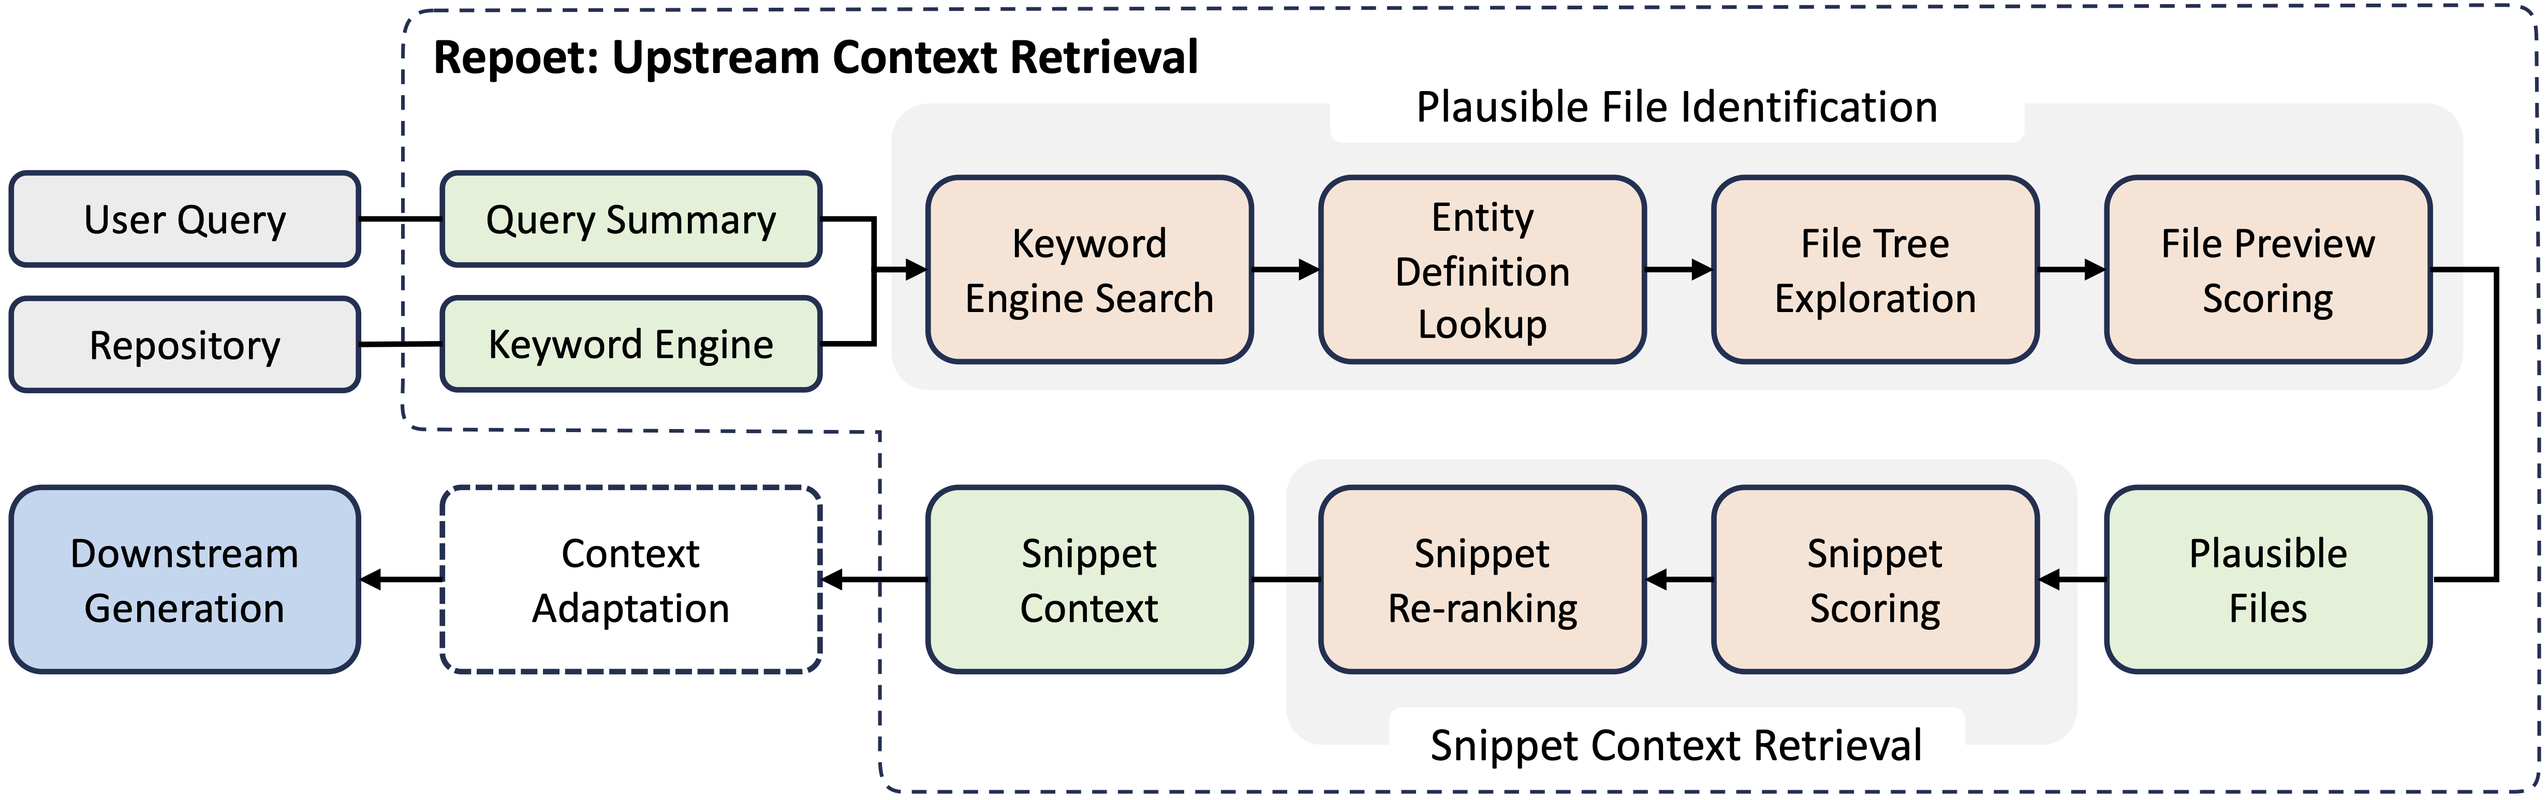
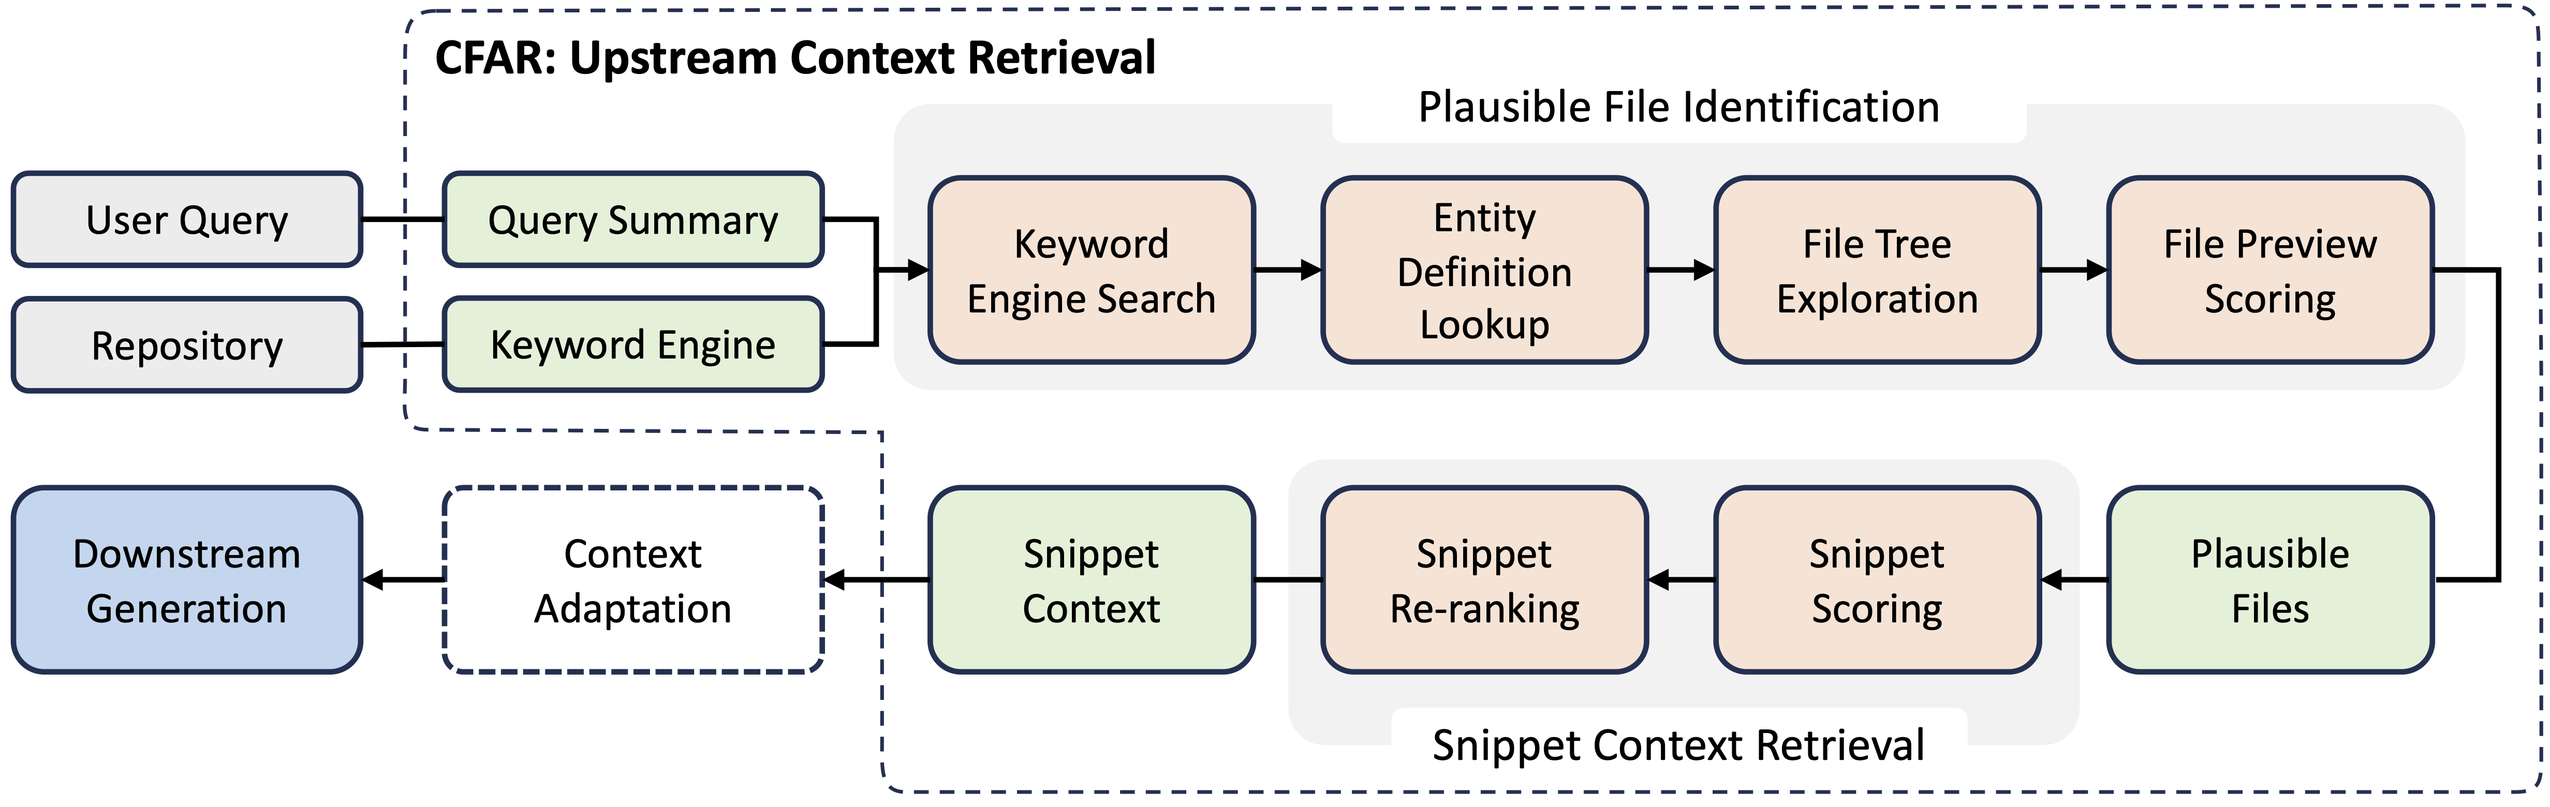
docs: rename swell and repoet in docs

diff --git a/cora/swekit.py b/cora/swekit.py
@@ -132,7 +132,7 @@ class SWEKit:
         self.num_thread = num_thread
         self.debug_mode = debug_mode
         self.console = get_boxed_console(
-            box_title="SWEKIT",
+            box_title="SWE-kit",
             box_bg_color="gray50",
             debug_mode=debug_mode,
         )
@@ -168,7 +168,7 @@ class SWEKit:
 
         # Create an RepoAgent to retrieve context and try resolving the issue
         agent = RepoAgent(
-            name="SWEKit",
+            name="SWE-kit",
             repo=repo,
             includes=["*.py"],  # We focus on Python for SWE-bench
             use_llm=self.use_llm,

diff --git a/cora/fixit.py b/cora/fixit.py
@@ -166,7 +166,7 @@ def main():
     eval_script, eval_args = parse_eval_script(args)
 
     fixit = RepoAgent(
-        name="FixIt",
+        name="FixIt!",
         repo=repo,
         includes=incl,
         use_llm=llm,

diff --git a/docs/README_zh.md b/docs/README_zh.md
@@ -3,7 +3,7 @@
 </div>
 
 <div align="center">
-    <h1>CodeFuse Swell</h1>
+    <h1>CodeFuse RepoAgent</h1>
 </div>
 
 <div align="center">
@@ -14,28 +14,28 @@
 
 <!-- TODO: Add Badges -->
 
-CodeFuse Swell 是一个仓库级检索增强生成（r-RAG）智能体，旨在通过提升 r-RAG 的上游检索（R）能力，进而增强下游大模型的生成（G）能力，并据此回答用户对仓库的查询和提问。Swell 利用其上游的语义检索智能体 CodeFuse Repoet 来获取于用户提问紧密相关的上下文信息，随后，它将这些上下文信息转换为特定任务的下游任务提示指令，以有效地生成对用户查询的响应。
+CodeFuse RepoAgent (CoRA) 是一个仓库级检索增强生成（r-RAG）智能体，旨在通过提升 r-RAG 的上游检索（R）能力，进而增强下游大模型的生成（G）能力，并据此回答用户对仓库的查询和提问。CoRA 利用其上游的语义检索智能体 CodeFuse Agentic Retriever (CFAR) 来获取于用户提问紧密相关的上下文信息，随后，它将这些上下文信息转换为特定任务的下游任务提示指令，以有效地生成对用户查询的响应。
 
 ---
 
 ## 🔥 新闻
 
-- **[2024/12/01]** 我们发布了 Swell 最核心的上下文检索工具 Repoet。
-- **[2024/12/03]** 我们发布了 Swell 的缺陷修复功能和修复 SWE-bench 中缺陷的工具 SWE-kit。
+- **[2024/12/01]** 我们发布了 CoRA 最核心的上下文检索工具 CodeFuse Agentic Retriever (CFAR)。
+- **[2024/12/03]** 我们发布了 CoRA 的缺陷修复工具 FixIt! 和 SWE-kit，其中，SWE-kit 集成 SWE-bench 进行补丁正确性验证。
 
 ---
 
 ## 👏🏻 简介
 
-Swell 利用 Repoet 获取与用户提问紧密相关的上下文信息，随后，它将这些上下文信息转换为特定任务的下游任务提示指令，以有效地生成对用户查询的响应。
+CoRA 利用 CFAR 获取与用户提问紧密相关的上下文信息，随后，它将这些上下文信息转换为特定任务的下游任务提示指令，以有效地生成对用户查询的响应。
 
-仓库级检索增强生成（r-RAG）所面临的主要挑战是提取与用户提问紧密相关的上下文信息——即称为“片段上下文”或简称“上下文”的特定代码行或文档行——以有效响应用户的仓库相关查询。虽然目前已经有一些现有方法，但它们存在准确性不足、结果不确定性以及设计复杂且难以实施等局限。为了解决这些问题，Repoet 提出了一种新颖且简单易行的复合方法，将传统的基于关键字的搜索与大语言模型（LLM）相结合，以提升 r-RAG 的语义检索能力。Repoet 的设计基于一个观察：尽管关键字搜索的准确性可能不高，但它所检索出的上下文往往接近于解决用户查询所需的真实上下文（GT, ground truths）。这一观察体现在两个方面：首先，虽然结果并不总是特别好，但关键字搜索仍能够召回相当一部分的 GT 文件；其次，关键字引擎所找到的文件在仓库结构上与 GT 文件距离较为接近，LLM 可以帮助在这些文件的附近进行更有效的查找。Repoet 的工作流程如下：
-1. **识别可行文件**：Repoet 首先利用关键字引擎找到一系列可能与用户查询相关的可行文件。这些可行文件为后续基于LLM的优化提供了基础，具体包括：（1）分析用户提问中的代码实体（例如函数和类）和仓库的组织结构，以补充可能在引擎搜索过程中遗漏的可行文件；（2）让 LLM 对每个可行文件进行概览分析，以过滤掉在引擎搜索中错误提及的不相关文件。
-2. **检索片段上下文**：接下来，Repoet 利用 LLM 深入检查每个可行文件的具体内容，查找与用户查询相关的片段，并在此阶段对相关片段进行排序和优化。
+仓库级检索增强生成（r-RAG）所面临的主要挑战是提取与用户提问紧密相关的上下文信息——即称为“片段上下文”或简称“上下文”的特定代码行或文档行——以有效响应用户的仓库相关查询。虽然目前已经有一些现有方法，但它们存在准确性不足、结果不确定性以及设计复杂且难以实施等局限。为了解决这些问题，CFAR 提出了一种新颖且简单易行的复合方法，将传统的基于关键字的搜索与大语言模型（LLM）相结合，以提升 r-RAG 的语义检索能力。CFAR 的设计基于一个观察：尽管关键字搜索的准确性可能不高，但它所检索出的上下文往往接近于解决用户查询所需的真实上下文（GT, ground truths）。这一观察体现在两个方面：首先，虽然结果并不总是特别好，但关键字搜索仍能够召回相当一部分的 GT 文件；其次，关键字引擎所找到的文件在仓库结构上与 GT 文件距离较为接近，LLM 可以帮助在这些文件的附近进行更有效的查找。CFAR 的工作流程如下：
+1. **识别可行文件**：CFAR 首先利用关键字引擎找到一系列可能与用户查询相关的可行文件。这些可行文件为后续基于LLM的优化提供了基础，具体包括：（1）分析用户提问中的代码实体（例如函数和类）和仓库的组织结构，以补充可能在引擎搜索过程中遗漏的可行文件；（2）让 LLM 对每个可行文件进行概览分析，以过滤掉在引擎搜索中错误提及的不相关文件。
+2. **检索片段上下文**：接下来，CFAR 利用 LLM 深入检查每个可行文件的具体内容，查找与用户查询相关的片段，并在此阶段对相关片段进行排序和优化。
 
-![Swell's Overview](../.github/assets/overview.png)
+![CoRA's Overview](../.github/assets/overview.png)
 
-Swell 的用途之一是仓库级的缺陷修复。基于 Repoet 获取的上下文，Swell 通过一条简单直接的提示词，便成功促使 GPT-4o 解决了 SWE-bench Lite 中的 95 个问题（31.67%）。在 2024 年 10 月 23 日前，这个结果曾一度在 SWE-bench Lite 开源排行榜上排名第一。我们将 Swell 的技术报告发表在了 [arXiv](#) 上。
+CoRA 的用途之一是仓库级的缺陷修复。基于 CFAR 获取的上下文，CoRA 通过一条简单直接的提示词，便成功促使 GPT-4o 解决了 SWE-bench Lite 中的 95 个问题（31.67%）。在 2024 年 10 月 23 日前，这个结果曾一度在 SWE-bench Lite 开源排行榜上排名第一。我们将 CoRA 的技术报告发表在了 [arXiv](#) 上。
 
 ## 📦 安装
 
@@ -43,21 +43,21 @@ Swell 的用途之一是仓库级的缺陷修复。基于 Repoet 获取的上下
 
 ```shell
 conda env create -f environment.yaml
-conda activate swell_venv
+conda activate cora_venv
 mv env.template .env  # This saves some environment variables
 ```
 
 其次，确保欲使用的大模型处于可用状态：
 - 对于 OpenAI 的模型，请在 `.env` 中配置 API key 等；
-- 对于 Ollama 模型，请在使用 Swell 前通过 `ollama pull` 下载所需模型；
+- 对于 Ollama 模型，请在使用 CoRA 前通过 `ollama pull` 下载所需模型；
 - 对于 HuggingFace 模型，要么提前下载好模型，要么在 `.env` 中配置允许 HuggingFace 联网。
 
 ## 🔍 上下文检索
 
-Repoet 可独立用于上下文检索:
+CFAR 可独立用于上下文检索:
 
 ```shell
-python -m swell.repoet      \
+python -m cora.cfar         \
     -q <user_query>         \
     -m <lang_model>         \
     <repository>
@@ -68,10 +68,10 @@ python -m swell.repoet      \
 > [!WARNING]
 > This section is still working in progress.
 
-Swell 可以为仓库中的某个缺陷生成修复该缺陷的补丁（patch）:
+CoRA 的 FixIt! 可以为仓库中的某个缺陷生成修复该缺陷的补丁（patch）:
 
 ```shell
-python -m swell.swell       \
+python -m cora.fixit        \
     -q <issue_text>         \
     -i <issue_id>           \
     -m <lang_model>         \
@@ -81,14 +81,14 @@ python -m swell.swell       \
     <repository>
 ```
 
-如果提供了评估脚本（即 `-e`），Swell 将使用该脚本评估所生成的补丁是否能够通过该脚本的测试。若未通过，Swell 将重试，直到生成能够通过该脚本的补丁或达到被允许尝试的最大尝试次数（即 `-M`）。若没有提供评估脚本，，Swell 仅生成一个看似合理的补丁，而不评估其正确性。
+如果提供了评估脚本（即 `-e`），FixIt! 将使用该脚本评估所生成的补丁是否能够通过该脚本的测试。若未通过，FixIt! 将重试，直到生成能够通过该脚本的补丁或达到被允许尝试的最大尝试次数（即 `-M`）。若没有提供评估脚本，，FixIt! 仅生成一个看似合理的补丁，而不评估其正确性。
 
 ## 🐑 SWE-bench (WIP)
 
 > [!WARNING]
 > This section is still working in progress
 
-Swell 的 SWE-kit 可以修复 SWE-bench 数据集中的缺陷。为了验证 Swell 生成的补丁是否可以通过 SWE-bench 中收录的测试，首先需要安装 SWE-bench:
+CoRA 的 SWE-kit 可以修复 SWE-bench 数据集中的缺陷。为了验证 SWE-kit 生成的补丁是否可以通过 SWE-bench 中收录的测试，首先需要安装 SWE-bench:
 
 ```shell
 git clone git@github.com:princeton-nlp/SWE-bench.git
@@ -99,7 +99,7 @@ pip install -e .
 然后，便可以用 SWE-kit 尝试为某个缺陷生成补丁：
 
 ```shell
-python -m swell.swekit      \
+python -m cora.swekit       \
     -d <dataset_id>         \
     -m <lang_model>         \
     -M <max_retries>        \
@@ -108,10 +108,10 @@ python -m swell.swekit      \
 
 ## 🤖 问题回答
 
-Swell's RepoQA 可以回答用户针对仓库的提问：
+CoRA's RepoQA 可以回答用户针对仓库的提问：
 
 ```shell
-python -m swell.repoqa      \
+python -m cora.repoqa       \
     -q <user_query>         \
     -m <lang_model>         \
     <repository>
@@ -119,16 +119,16 @@ python -m swell.repoqa      \
 
 ## 👨💻 写给开发者
 
-为更好地维护仓库，Swell 设置了一系列预提交检查，比如代码风格检查、提交信息检查等。因此，在为该项目提交代码之前，开发者需要安装 Swell 所需的检查工具：
+为更好地维护仓库，CoRA 设置了一系列预提交检查，比如代码风格检查、提交信息检查等。因此，在为该项目提交代码之前，开发者需要安装 CoRA 所需的检查工具：
 
 ```shell
 pre-commit install  # install pre-commit itself
 pre-commit install-hooks  # install our pre-commit checkers
 ```
 
-下面列举了 Swell 设置的部分检查器:
-+ Python：Swell 使用 ruff 进行代码检查和格式化，[这里](https://docs.astral.sh/ruff/rules/)列举了所有 Ruff 支持的规则。若开发者使用 PyCharm，可根据 [ruff.md](./docs/ruff.md) 进行 ruff 配置。
-+ Commit Messages：Swell 遵循 Conventional Commits 来规范所有提交信息，见[这里](https://www.conventionalcommits.org/)。
-+ 其他：Swell 还应用了一些其他检查工具，例如 YAML 检查。
+下面列举了 CoRA 设置的部分检查器:
++ Python：CoRA 使用 ruff 进行代码检查和格式化，[这里](https://docs.astral.sh/ruff/rules/)列举了所有 Ruff 支持的规则。若开发者使用 PyCharm，可根据 [ruff.md](./docs/ruff.md) 进行 ruff 配置。
++ Commit Messages：CoRA 遵循 Conventional Commits 来规范所有提交信息，见[这里](https://www.conventionalcommits.org/)。
++ 其他：CoRA 还应用了一些其他检查工具，例如 YAML 检查。
 
 <!-- Add "Cite Us" -->

diff --git a/README.md b/README.md
@@ -3,7 +3,7 @@
 </div>
 
 <div align="center">
-    <h1>CodeFuse Swell</h1>
+    <h1>CodeFuse RepoAgent</h1>
 </div>
 
 <div align="center">
@@ -14,28 +14,28 @@
 
 <!-- TODO: Add Badges -->
 
-CodeFuse Swell (or Swell) is a repository-level retrieval-augmented generation agent aiming to address user queries toward a software repository.
+CodeFuse RepoAgent (or CoRA) is a repository-level retrieval-augmented generation agent aiming to address user queries toward a software repository.
 
 ---
 
 ## 🔥 News
 
-- **[Dec. 1, 2024]** We released Swell's primary component—the upstream retriever CodeFuse Repoet (or Repoet).
-- **[Dec. 3, 2024]** We released Swell's downstream issue-fix agent, as well as its SWE-bench variant SWE-kit.
+- **[Dec. 1, 2024]** We released CoRA's primary component—the upstream retriever CodeFuse Agentic Retriever (or CFAR).
+- **[Dec. 3, 2024]** We released CoRA's downstream issue-fixing agent FixIt!, as well as its SWE-bench variant SWE-kit.
 
 ---
 
 ## 👏🏻 Overview
 
-Swell utilizes its upstream agentic retriever, CodeFuse Repoet (or Repoet), to fetch relevant context. Then, it adapts these relevant context into task-specific, downstream prompt to effectively generate responses to user queries.
+CoRA utilizes its upstream agentic retriever, CodeFuse Agentic Retriever (or CFAR), to fetch relevant context. Then, it adapts these relevant context into task-specific, downstream prompt to effectively generate responses to user queries.
 
-To effectively extract the relevant context—certain lines of code or documentation, referred to as snippets—from the repository, Repoet presents a novel yet simple composite approach. Repoet founds on a classical keyword-based search engine, while it employs modern language models (LMs) for further, assistive refinement. Repoet is built upon the key observation that while classical engines may lack some accuracy, the contexts they retrieve are often close to the actual context (or ground truth) necessary to address a user query. The observation is reflected in twofold:
+To effectively extract the relevant context—certain lines of code or documentation, referred to as snippets—from the repository, CFAR presents a novel yet simple composite approach. CFAR founds on a classical keyword-based search engine, while it employs modern language models (LMs) for further, assistive refinement. CFAR is built upon the key observation that while classical engines may lack some accuracy, the contexts they retrieve are often close to the actual context (or ground truth) necessary to address a user query. The observation is reflected in twofold:
 + Although not significant, the keyword engine is already able to recall a moderate portion of ground-truth files;
 + The files they retrieve are in close proximity to the ground-truth files in terms of the repository structure, and the last mile can be completed by LLMs.
 
-![Swell's Overview](./.github/assets/overview.png)
+![CoRA's Overview](./.github/assets/overview.png)
 
-The main usage of Swell is to resolve issues. Based on Repoet-retrieved contexts, a simple prompt drove Swell to successfully resolved 95 issues (31.67%) in SWE-bench Lite, where 8 issues are uniquely addressed. This achieved the top ranking among all open-source agents by 23/10/2024 in the leaderboard. The technical report can be found in [arXiv](#).
+The main usage of CoRA is to resolve issues. Based on CFAR-retrieved contexts, a simple prompt drove CoRA to successfully resolved 95 issues (31.67%) in SWE-bench Lite, where 8 issues are uniquely addressed. This achieved the top ranking among all open-source agents by 23/10/2024 in the leaderboard. The technical report can be found in [arXiv](#).
 
 ## 📦 Installation
 
@@ -43,7 +43,7 @@ First create a conda environment:
 
 ```shell
 conda env create -f environment.yaml
-conda activate swell_venv
+conda activate cora_venv
 mv env.template .env  # This saves some environment variables
 ```
 
@@ -54,10 +54,10 @@ Then ensure your models were downloaded or set up some environment variables in:
 
 ## 🔍 Retrieve Context
 
-Repoet can be executed in separate to retrieve relevant context for a user query:
+CFAR can be executed in separate to retrieve relevant context for a user query:
 
 ```shell
-python -m swell.repoet      \
+python -m cora.cfar         \
     -q <user_query>         \
     -m <lang_model>         \
     <repository>
@@ -68,10 +68,10 @@ python -m swell.repoet      \
 > [!WARNING]
 > This section is still working in progress.
 
-Swell supports generating a plausible patch to fix a given issue for a repository:
+CoRA's FixIt! supports generating a plausible patch to fix a given issue for a repository:
 
 ```shell
-python -m swell.swell       \
+python -m cora.fixit        \
     -q <issue_text>         \
     -i <issue_id>           \
     -m <lang_model>         \
@@ -81,14 +81,14 @@ python -m swell.swell       \
     <repository>
 ```
 
-If an evaluation script (i.e., `-e`) is provided, Swell generates a patch until the evaluation script considers the issue has been fixed or Swell reaches the max number of allowed attempts. In this context, Swell applies the generated patch on the repository and passes the issue and the new repository's path to the evaluation script. Otherwise, Swell merely generates a plausible patch without evaluating its correctness.
+If an evaluation script (i.e., `-e`) is provided, FixIt! generates a patch until the evaluation script considers the issue has been fixed or FixIt! reaches the max number of allowed attempts. In this context, FixIt! applies the generated patch on the repository and passes the issue and the new repository's path to the evaluation script. Otherwise, FixIt! merely generates a plausible patch without evaluating its correctness.
 
 ## 🐑 Fix SWE-bench (WIP)
 
 > [!WARNING]
 > This section is still working in progress
 
-Swell's SWE-kit supports generating patches for SWE-bench issues. To evaluate if the generated patch can pass SWE-bench, we have to install SWE-bench first:
+CoRA's SWE-kit supports generating patches for SWE-bench issues. To evaluate if the generated patch can pass SWE-bench, we have to install SWE-bench first:
 
 ```shell
 git clone git@github.com:princeton-nlp/SWE-bench.git
@@ -96,10 +96,10 @@ cd SWE-bench
 pip install -e .
 ```
 
-After that, Swell can generate patches and evaluating the generated patch via SWE-bench.
+After that, SWE-kit can generate patches and evaluating the generated patch via SWE-bench.
 
 ```shell
-python -m swell.swekit      \
+python -m cora.swekit       \
     -d <dataset_id>         \
     -m <lang_model>         \
     -M <max_retries>        \
@@ -108,10 +108,10 @@ python -m swell.swekit      \
 
 ## 🤖 Answer Questions
 
-Swell's RepoQA can answer user's questions towards the repository:
+CoRA's RepoQA can answer user's questions towards the repository:
 
 ```shell
-python -m swell.repoqa      \
+python -m cora.repoqa       \
     -q <user_query>         \
     -m <lang_model>         \
     <repository>
@@ -119,7 +119,7 @@ python -m swell.repoqa      \
 
 ## 👨💻 Contributions
 
-Swell enforces a series of pre-commit checks that our contributors should follow. Before contributing to this project, developers are required to install our checkers:
+CoRA enforces a series of pre-commit checks that our contributors should follow. Before contributing to this project, developers are required to install our checkers:
 
 ```shell
 pre-commit install  # install pre-commit itself

diff --git a/docs/ruff.md b/docs/ruff.md
@@ -4,14 +4,14 @@ This documents ensures Ruff to lint and format the file on each save action.
 
 ## Configure In PyCharm
 
-1. Install Swell and start Swell's environment following instructions in [README.md](../README.md).
+1. Install CoRA and start CoRA's environment following instructions in [README.md](../README.md).
 2. Install Ruff with the version (with a comment `# Ruff version.`) shown in [pre-commit configs](../.pre-commit-config.yaml). For example:
 
 ```shell
 pip install ruff==v0.7.2  # Change the version accordingly
 ```
 
-3. Import Swell into PyCharm; please ensure Swell's environment has been imported as a common conda environment
+3. Import CoRA into PyCharm; please ensure CoRA's environment has been imported as a common conda environment
 4. Open Settings -> Tools -> File Watchers, and add a new file watcher named with the following configurations with the Arguments filled with
 
 ```shell
